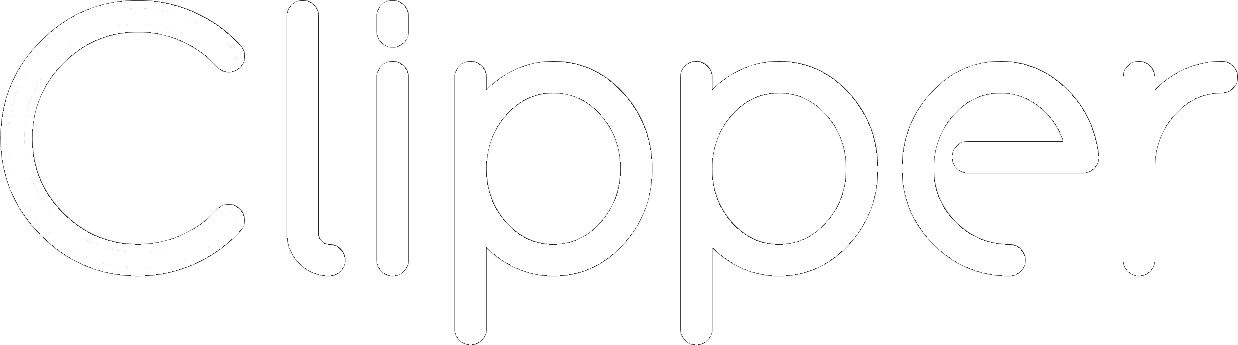
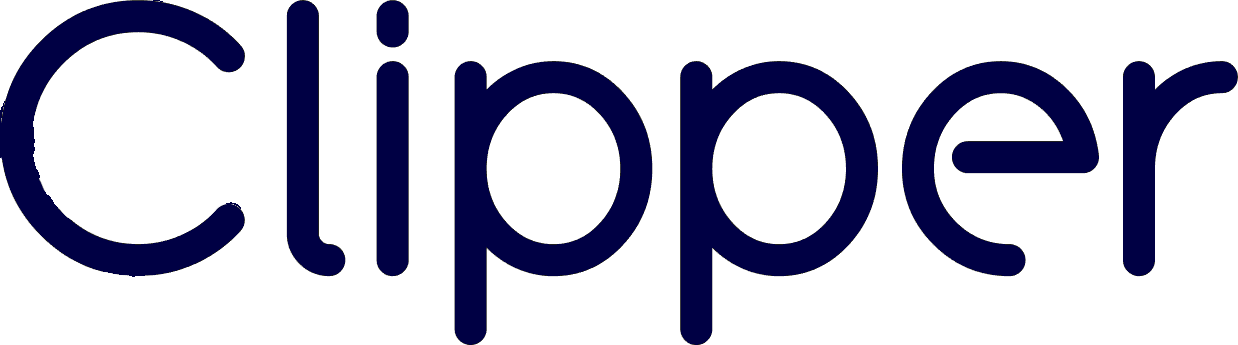
ajustando fontes e tamanhos interface

Changed region(s): [[0.3683, 0.1739, 1.0, 1.0], [0.0, 0.0, 0.3376, 0.8116], [0.3069, 0.0, 0.3376, 0.1449]]

diff --git a/app/modules/clipper/controllers/gridController.js b/app/modules/clipper/controllers/gridController.js
@@ -57,21 +57,6 @@ angular
             });
     };
 
-    // $scope.showMore = function(limNot) {
-        
-    //     var quant = $scope.novidades.length - limNot;
-    //     while(quant < 20) {
-    //     //load more items 
-    //         $scope.loadMore(); 
-    //         quant = $scope.novidades.length - limNot;
-    //         console.log($scope.novidades.length+' e '+ limNot);
-    //         if(quant <= 0)
-    //             break;
-    //     };    
-    //     console.log($scope.numPage);
-    //     return 20;
-    // };
-
     $scope.filtering = function() {
         var query='?';     //inicio de uma query
         //pegando os valores pro filtro composto
@@ -224,6 +209,8 @@ angular
             removeFilter(filterManager,"keywords");
 
             //falta pesquisar no ID
+            //trocar o array de dados principal pelo filtrado pra continuar a pesquisa
+            filterManager = createFilterManager($scope.novidades);
         }
 
          if((query.tag != undefined)&(query.tag != '')) {
@@ -233,8 +220,9 @@ angular
                 "values":query.tag
             }
             addFilter(filterManager,tagFilter);
-            $scope.novidades = mergeArrays($scope.novidades,getData(filterManager));
-            removeFilter(filterManager,"keywords");
+            $scope.novidades = getData(filterManager);
+            //trocar o array de dados principal pelo filtrado pra continuar a pesquisa
+            filterManager = createFilterManager($scope.novidades);
         }
 
         if((query.data != undefined)&(query.data != '')) {
@@ -252,8 +240,8 @@ angular
             dataFilter["values"][0] = query.data,
             dataFilter["values"][1] = limiteTempo.substring(0,(limiteTempo.length-1));
             addFilter(filterManager,dataFilter);
-            $scope.novidades = mergeArrays($scope.novidades,getData(filterManager));
-            removeFilter(filterManager,"dateCreated");
+            $scope.novidades = getData(filterManager);
+            
         }         
     };
 

diff --git a/app/modules/clipper/controllers/menuController.js b/app/modules/clipper/controllers/menuController.js
@@ -1,30 +1,20 @@
 angular
     .module('hash.clipper')
-    .controller('menuController', [ '$scope',  function ($scope,$mdSidenav) {
-     $scope.openLeftMenu = function() {
-        $mdSidenav('left').toggle();
-      };
-     $scope.news = 2;
-     $scope.mLat = [ 
-      { 
-        id: 'iconNot', 
-        link: '#', 
-        coverAtv: 'img/clipper/menu1_atv.PNG', 
-        coverDes: 'img/clipper/menu1_des.PNG' 
-      }, 
-      { 
-        id: 'iconGraf', 
-        link: '#', 
-        coverAtv: 'img/clipper/menu2_atv.PNG', 
-        coverDes: 'img/clipper/menu2_des.PNG' 
-      }, 
-    ];
-    $scope.plusOne = function (index) {
-         $scope.news += 1;
-        };
-    $scope.minusOne = function (index) {
-         $scope.news -= 1;
-        };
+    .controller('menuController', [ '$scope',  function ($scope) {
+     
+    $scope.lista = function () {
+      var exibicao = document.getElementById('exibicao').value;
+
+      if(exibicao === 'Com imagens') {
+        document.getElementsByClassName('.col-md-3').style.display = 'inline-block';
+        document.getElementById('exibicao').value = 'Lista';
+      } else {
+        document.getElementsByClassName('.col-md-3').style.display = 'none';
+        document.getElementById('exibicao').value = 'Com imagens';
+      }
+
+    };
+
     $scope.ultHora = [
      {
       label:'Hoje 8h'
@@ -134,21 +124,4 @@ angular
      }
     ];
 
-    $scope.mSupE = [ 
-      { 
-        id: 'iconNext', 
-        onclick: '#', 
-        coverAtv: 'img/clipper/icon5.PNG'
-      },
-      // { 
-      //   id: 'iconRef', 
-      //   onclick: '#', 
-      //   coverAtv: 'img/clipper/icon6.PNG' 
-      // },
-      // { 
-      //   id: 'iconRead', 
-      //   onclick: '#', 
-      //   coverAtv: 'img/clipper/icon7.PNG'
-      // },
-    ];
     }]);

diff --git a/app/modules/clipper/views/index.html b/app/modules/clipper/views/index.html
@@ -1,19 +1,21 @@
   <!--  menu lateral  -->
   <div class="navbar-fixed-left" ng-controller="menuController">
     <!---p class="news" ng-click="plusOne($index)"> {{news}}</p!--> 
+    <button value="Lista" ng-click="lista()" id="exibicao"><h5>Mudar exibição</h5></button>
+    <br><br><br>
       <section layout="row" layout-align="left" layout-wrap style=" display: inline-block;">
           <searching> </searching>
       </section>
       <!--  buttons da esquerda -->
       <section layout="row" layout-align="center" layout-wrap align="center">
-        <button ng-repeat="item in mSupE" ng-click="filtering(listaExibida)" ng-controller="gridController">
-        <img ng-src="{{item.coverAtv}}">
+        <button ng-click="filtering(listaExibida)" ng-controller="gridController">
+        <img src="img/clipper/lupa.PNG">
         </button>
       </section>
     </div>
 
  <div id="conteudo">
-    <h4 text-size="18">Diário de veículos jornalísticos</h4>
+    <img src="img/clipper/title.PNG" style="height: 45px; width: auto">
     <br><br><br>
       <!--  blocos de notícias novas  -->
     <div id="notNovas" ng-controller="gridController" ng-init="limNot = 20" >
@@ -36,7 +38,7 @@
 
       <div ng-repeat="nov in novidades | limitTo:limNot">
           <noticias info=nov  class="row"></noticias>
-          <br><br>
+          <hr noshade style="width:100%; background-color: #D6D6D6; height: 2px;" ><br>
       </div>
 
       <br><br>
@@ -44,8 +46,6 @@
         <button ng-click="limNot = limNot + 20; loadMore()" > Carregar mais </button>
       </section>
     </div>
-
-    <hr noshade style="width:100%; background-color: #D6D6D6; height: 2px;" >
       <!--  footer  -->
     <div id="footer">
     </div>

diff --git a/app/modules/clipper/directives/noticias.html b/app/modules/clipper/directives/noticias.html
@@ -1,12 +1,12 @@
-<div class="col-md-4" ng-controller="gridController">
+<div class="col-md-3" ng-controller="gridController">
 	<button type="button" style="background:url({{ info.image }}) center center;background-size: cover; width:100%; height: 25%;" class="thumbnail" ng-click="showDialog(info)">&nbsp;</button>
 </div>
-<div class="col-md-8">
+<div class="col-md-9">
   	<div class="row" ng-controller="gridController">
-  		<a ng-click="showDialog(info)"><h5><b>{{ info.headline }}</b>&nbsp</h5></a>
+  		<label ng-click="showDialog(info)"><h4><b>{{ info.headline }}</b>&nbsp</h4></label>
   	</div>
   	<div class="row" ng-init="fonte = info.url.split('/')[2]">
-  		<a href="http://{{fonte}}" target="_blank" style="display: inline">{{fonte}}</a> &nbsp &#8211 &nbsp {{info.datePublished| date:"dd/MM/yyyy HH'h'mm"}}
+  		Publicado por <a href="http://{{fonte}}" target="_blank" style="display: inline">{{fonte}}</a> em {{info.datePublished| date:"dd/MM/yyyy 'às' HH'h'mm"}}
   	</div>
   	<div class="row">
   		{{info.description}}

diff --git a/app/css/clipper.css b/app/css/clipper.css
@@ -1,16 +1,16 @@
 html,body {
-  font-family: "Open Sans";
+  font-family: arial, helvetica, sans-serif;;
   background-color: #F2F2F2;
   border: none;
   width: 100%;
+  color:#2B3044;
 }
 
 #conteudo {
   padding-right: 15%;
   padding-left: 18%;
   padding-top: 5%;
-  font-family: "Open Sans";
-  font-size: 13px;
+  font-size: 15px;
   background-color: #F2F2F2;
 }
 
@@ -85,16 +85,18 @@ button{
   height: auto;
 }
 
-.col-md-8 input {
+.col-md-9 input {
   background-color: transparent;
   border-radius: 5px;
   outline: none;
   box-shadow: 0;
   border:1px solid #D6D6D6;
   color:#2B3044;
-  margin-right: 4px;
-  padding:3px 3px 3px 3px;
+  margin: 10px 5px 0px 0px;
+  padding:3px 10px 3px 10px;
 }
+
+
 .modal {
   display: none; /* Hidden by default */
   position: fixed; /* Stay in place */
@@ -136,7 +138,8 @@ button{
 }
 
 .close:hover,
-.close:focus {
+.close:focus,
+.col-md-9 label:hover{
   color: #000;
   text-decoration: none;
   cursor: pointer;
